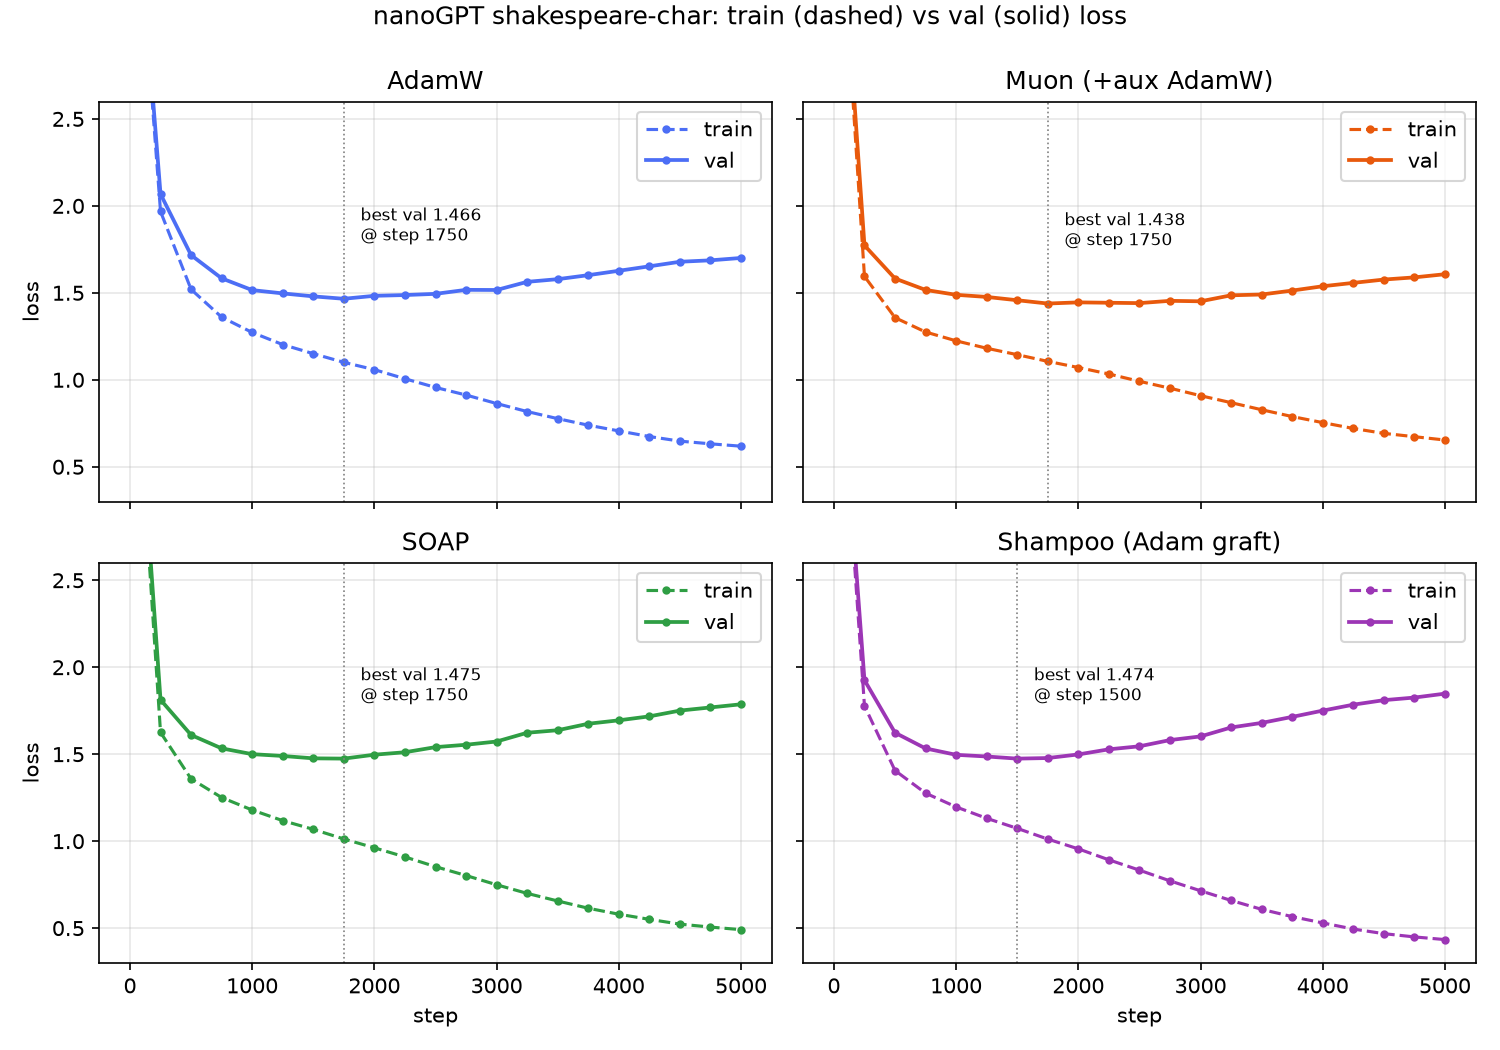
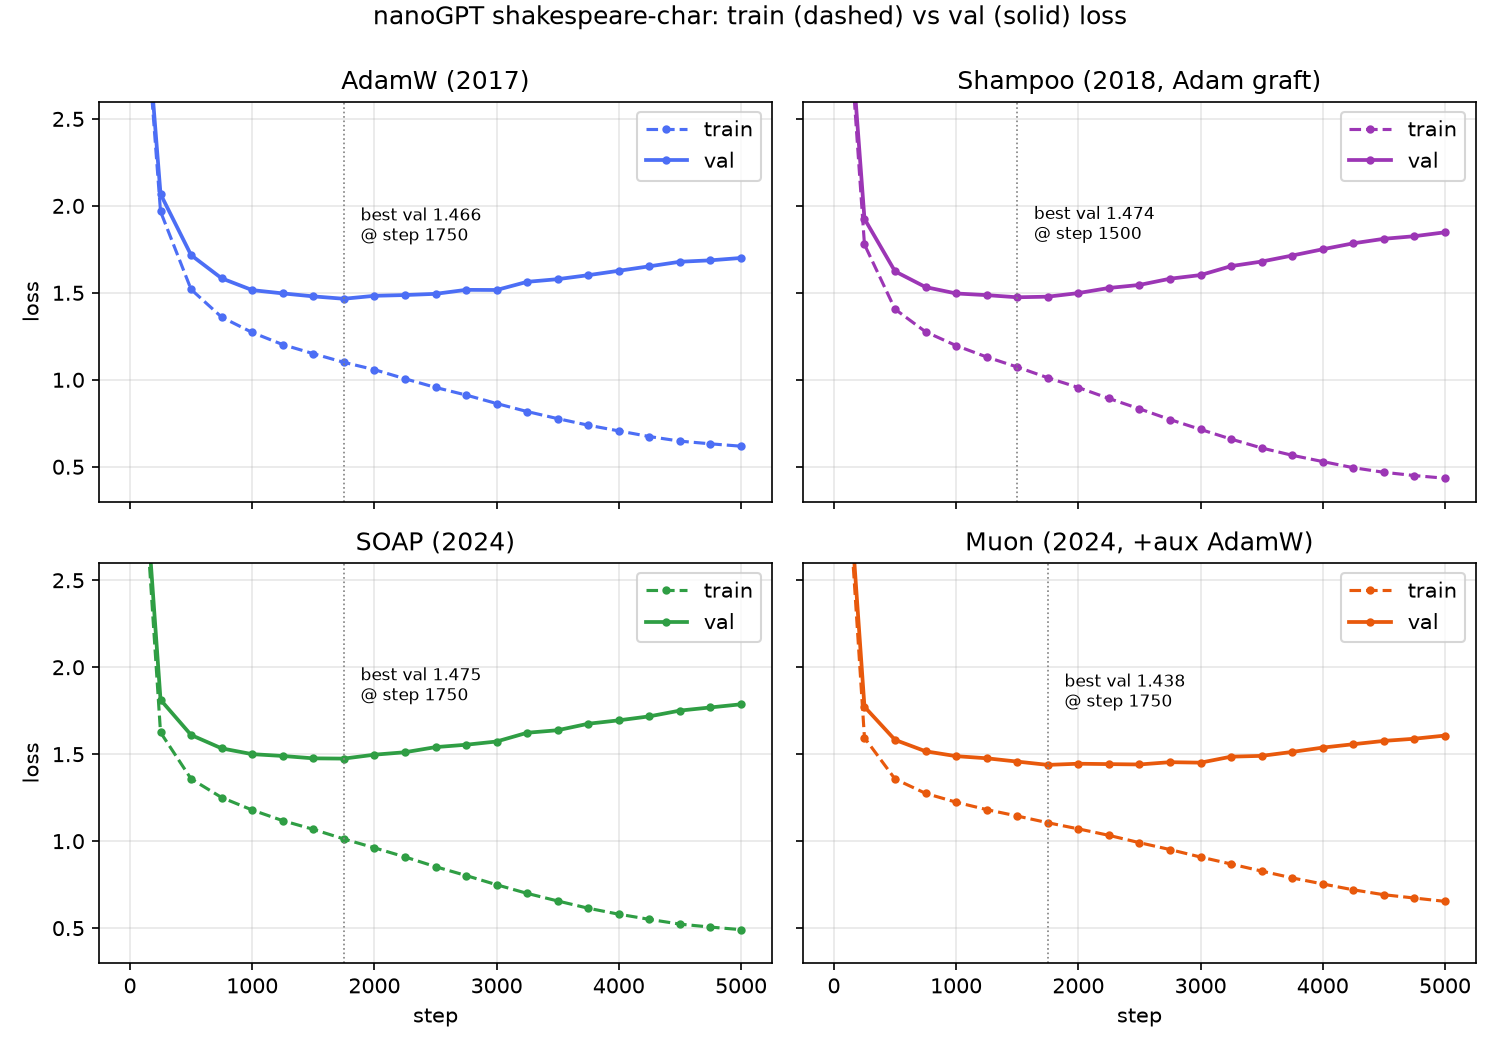
Order optimizers chronologically: AdamW, Shampoo, SOAP, Muon

diff --git a/scripts/analyze.py b/scripts/analyze.py
@@ -3,7 +3,7 @@ matplotlib.use('Agg')
 import matplotlib.pyplot as plt
 R = 'results'
 import os
-all_runs = [('AdamW', 'adamw', '#4C6EF5'), ('Muon (+aux AdamW)', 'muon', '#E8590C'), ('SOAP', 'soap', '#2F9E44'), ('Shampoo (Adam graft)', 'shampoo', '#9C36B5')]
+all_runs = [('AdamW (2017)', 'adamw', '#4C6EF5'), ('Shampoo (2018, Adam graft)', 'shampoo', '#9C36B5'), ('SOAP (2024)', 'soap', '#2F9E44'), ('Muon (2024, +aux AdamW)', 'muon', '#E8590C')]
 runs = {k: f'{R}/log_{f}.csv' for k, f, _ in all_runs if os.path.exists(f'{R}/log_{f}.csv')}
 colors = {k: c for k, _, c in all_runs}
 dfs = {k: pd.read_csv(v) for k, v in runs.items()}

diff --git a/scripts/plot_train_val.py b/scripts/plot_train_val.py
@@ -2,7 +2,7 @@ import pandas as pd, matplotlib
 matplotlib.use('Agg')
 import matplotlib.pyplot as plt
 R = 'results'
-runs = [('AdamW', 'adamw', '#4C6EF5'), ('Muon (+aux AdamW)', 'muon', '#E8590C'), ('SOAP', 'soap', '#2F9E44'), ('Shampoo (Adam graft)', 'shampoo', '#9C36B5')]
+runs = [('AdamW (2017)', 'adamw', '#4C6EF5'), ('Shampoo (2018, Adam graft)', 'shampoo', '#9C36B5'), ('SOAP (2024)', 'soap', '#2F9E44'), ('Muon (2024, +aux AdamW)', 'muon', '#E8590C')]
 fig, axes = plt.subplots(2, 2, figsize=(10, 7), dpi=150, sharex=True, sharey=True)
 for ax, (name, f, c) in zip(axes.flat, runs):
     df = pd.read_csv(f'{R}/log_{f}.csv')

diff --git a/results/README.md b/results/README.md
@@ -1,43 +1,46 @@
-# nanoGPT shakespeare-char: AdamW vs Muon vs SOAP vs Shampoo (RTX 5060, 2026-10-31)
+# nanoGPT shakespeare-char: AdamW vs Shampoo vs SOAP vs Muon (RTX 5060, 2026-10-31)
+
+옵티마이저는 발표 순서대로 정리한다: AdamW(2017) → Shampoo(2018) → SOAP(2024.9) → Muon(2024.10).
 
 공통 설정: n_layer=6, n_head=6, n_embd=384, block_size=256, batch_size=64, dropout=0.2,
 max_iters=5000, warmup 100 + cosine decay(min_lr = lr/10), seed=1337, eval_interval=250, eval_iters=200, bf16, torch.compile.
 네 run 모두 같은 warmup/cosine 스케줄(각 옵티마이저의 base lr에 비례).
 
 - (A) AdamW: lr=1e-3, betas=(0.9, 0.99), weight_decay=0.1 (2D), 0 (1D)
-- (B) Muon + aux AdamW (KellerJordan/Muon, SingleDeviceMuonWithAuxAdam):
+- (B) Shampoo (facebookresearch/optimizers DistributedShampoo, 전체 파라미터): AdamW grafting, (A)와 같은 lr=1e-3, betas=(0.9, 0.99), weight_decay=0.1(2D) / 0(1D), epsilon=1e-12, grafting epsilon=1e-8, max_preconditioner_dim=1536, precondition_frequency=10.
+- (C) SOAP (nikhilvyas/SOAP 공식 soap.py, 전체 파라미터): lr=3e-3, betas=(0.95, 0.95), weight_decay=0.01(2D) / 0(1D), precondition_frequency=10 (공식 README 기본값). 1D 파라미터는 프리컨디셔닝 없이 Adam.
+- (D) Muon + aux AdamW (KellerJordan/Muon, SingleDeviceMuonWithAuxAdam):
   - Muon: transformer block 내부 2D 가중치 24개(c_attn, c_proj, c_fc, c_proj) 10.62M 파라미터, lr=0.02, momentum=0.95, weight_decay=0.01(공식 README 기본값)
   - aux AdamW: wte(lm_head와 tied), wpe, LayerNorm 15개 0.13M 파라미터, (A)와 같은 lr=1e-3, betas, weight_decay
   - 그룹 구성: muon_param_groups.txt
-- (C) SOAP (nikhilvyas/SOAP 공식 soap.py, 전체 파라미터): lr=3e-3, betas=(0.95, 0.95), weight_decay=0.01(2D) / 0(1D), precondition_frequency=10 (공식 README 기본값). 1D 파라미터는 프리컨디셔닝 없이 Adam.
-- (D) Shampoo (facebookresearch/optimizers DistributedShampoo, 전체 파라미터): AdamW grafting, (A)와 같은 lr=1e-3, betas=(0.9, 0.99), weight_decay=0.1(2D) / 0(1D), epsilon=1e-12, grafting epsilon=1e-8, max_preconditioner_dim=1536, precondition_frequency=10.
 
 ## 결과 표
 | run | final val loss | best val loss (step) | final train loss | train time (s) | wall time incl. eval (s) | ms/step |
 |---|---|---|---|---|---|---|
-| AdamW | 1.7005 | 1.4659 (1750) | 0.6183 | 241.6 | 363.5 | 48.5 |
-| Muon (+aux AdamW) | 1.6071 | 1.4385 (1750) | 0.6538 | 277.2 | 399.0 | 55.7 |
-| SOAP | 1.7869 | 1.4746 (1750) | 0.4912 | 386.6 | 514.3 | 77.6 |
-| Shampoo (Adam graft) | 1.8481 | 1.4745 (1500) | 0.4341 | 661.5 | 784.1 | 132.8 |
+| AdamW (2017) | 1.7005 | 1.4659 (1750) | 0.6183 | 241.6 | 363.5 | 48.5 |
+| Shampoo (2018, Adam graft) | 1.8481 | 1.4745 (1500) | 0.4341 | 661.5 | 784.1 | 132.8 |
+| SOAP (2024) | 1.7869 | 1.4746 (1750) | 0.4912 | 386.6 | 514.3 | 77.6 |
+| Muon (2024, +aux AdamW) | 1.6071 | **1.4385** (1750) | 0.6538 | 277.2 | 399.0 | 55.7 |
 
-| val loss threshold | AdamW: step (time s) | Muon: step (time s) | SOAP: step (time s) | Shampoo: step (time s) |
+| val loss threshold | AdamW: step (time s) | Shampoo: step (time s) | SOAP: step (time s) | Muon: step (time s) |
 |---|---|---|---|---|
-| ≤ 2.0 | 500 (24s) | 250 (14s) | 250 (19s) | 250 (33s) |
-| ≤ 1.8 | 500 (24s) | 250 (14s) | 500 (39s) | 500 (67s) |
-| ≤ 1.7 | 750 (36s) | 500 (28s) | 500 (39s) | 500 (67s) |
-| ≤ 1.6 | 750 (36s) | 500 (28s) | 750 (58s) | 750 (100s) |
-| ≤ 1.5 | 1250 (60s) | 1000 (55s) | 1250 (97s) | 1000 (133s) |
+| ≤ 2.0 | 500 (24s) | 250 (33s) | 250 (19s) | 250 (14s) |
+| ≤ 1.8 | 500 (24s) | 500 (67s) | 500 (39s) | 250 (14s) |
+| ≤ 1.7 | 750 (36s) | 500 (67s) | 500 (39s) | 500 (28s) |
+| ≤ 1.6 | 750 (36s) | 750 (100s) | 750 (58s) | 500 (28s) |
+| ≤ 1.5 | 1250 (60s) | 1000 (133s) | 1250 (97s) | 1000 (55s) |
 
 train time = eval 시간을 뺀 순수 학습 step 누적 시간, wall time = eval 포함 전체 경과 시간.
+nanoGPT README의 A100 기준값은 best val 1.4697 (우리 AdamW 1.4659와 일치).
 
 ## 파일
-- log_{adamw,muon,soap,shampoo}.csv: step, train loss, val loss, 누적 학습 시간, 누적 전체 시간
-- val_loss_vs_step.png, val_loss_vs_time.png (4개 run)
+- log_{adamw,shampoo,soap,muon}.csv: step, train loss, val loss, 누적 학습 시간, 누적 전체 시간
+- val_loss_vs_step.png, val_loss_vs_time.png (4개 run), train_val_curves.png (옵티마이저별 train vs val)
 - sample_*.txt: best-val checkpoint에서 500자 생성(temperature 0.8, top_k 200, seed 1337)
 - out-*/: best-val checkpoint (out-shampoo는 옵티마이저 상태를 제거하고 모델만 저장)
 
 ## 요약
-- step 기준 최저 val loss: Muon 1.439 < AdamW 1.466 ≈ Shampoo 1.4745 ≈ SOAP 1.4746. Muon만 AdamW보다 확실히 좋고, SOAP·Shampoo는 초반(250~1000 step)에는 AdamW보다 빠르지만 최저점은 AdamW와 같은 수준이다.
-- 시간 기준에서는 순위가 바뀐다. step당 시간이 AdamW 48 ms, Muon 56 ms, SOAP 78 ms, Shampoo 133 ms라서, 같은 시간 안에 도달하는 val loss는 Muon > AdamW > SOAP > Shampoo 순이다. Shampoo는 step 효율 이득이 2.7배 느린 step 비용을 상쇄하지 못한다.
-- 네 run 모두 1500~1750 step 이후 과적합. SOAP·Shampoo는 train loss를 더 낮게 밀어붙이고(0.43~0.49) 그만큼 val loss가 더 빨리 올라간다. 이 데이터셋(1M 토큰)에서는 2차 옵티마이저의 강한 피팅력이 일반화에 불리하게 작용했다.
+- step 기준 최저 val loss: Muon 1.439 < AdamW 1.466 ≈ Shampoo 1.4745 ≈ SOAP 1.4746. Muon만 AdamW보다 확실히 좋고, Shampoo·SOAP은 초반(250~1000 step)에는 AdamW보다 빠르지만 최저점은 AdamW와 같은 수준이다.
+- 시간 기준에서는 순위가 바뀐다. step당 시간이 AdamW 48 ms, Shampoo 133 ms, SOAP 78 ms, Muon 56 ms라서, 같은 시간 안에 도달하는 val loss는 Muon > AdamW > SOAP > Shampoo 순이다. Shampoo는 step 효율 이득이 2.7배 느린 step 비용을 상쇄하지 못한다.
+- 네 run 모두 1500~1750 step 이후 과적합. Shampoo·SOAP은 train loss를 더 낮게 밀어붙이고(0.43~0.49) 그만큼 val loss가 더 빨리 올라간다. 이 데이터셋(1M 토큰)에서는 2차 옵티마이저의 강한 피팅력이 일반화에 불리하게 작용했다.
 - 단일 seed, lr 탐색 없음. SOAP은 공식 기본 lr(3e-3)을, Shampoo는 grafting 덕에 AdamW lr을 그대로 썼으나 둘 다 이 모델 크기에 맞춰 튜닝된 값은 아니다.

diff --git a/README.md b/README.md
@@ -1,25 +1,27 @@
-# nanoGPT optimizer comparison: AdamW vs Muon vs SOAP vs Shampoo
+# nanoGPT optimizer comparison: AdamW vs Shampoo vs SOAP vs Muon
 
 nanoGPT shakespeare-char(6 layer, 384 dim, 10.65M params)를 같은 설정으로 5000 step 학습하면서
-네 가지 옵티마이저를 비교한 실험. 단일 RTX 5060(8GB), 2026-10-31.
+네 가지 옵티마이저를 발표 순서대로 비교한 실험: AdamW(2017) → Shampoo(2018) → SOAP(2024.9) → Muon(2024.10).
+단일 RTX 5060(8GB), 2026-10-31.
 
 **결과와 요약은 [results/README.md](results/README.md)** 에 있다.
 
 ![val loss vs step](results/val_loss_vs_step.png)
 ![val loss vs time](results/val_loss_vs_time.png)
+![train vs val per optimizer](results/train_val_curves.png)
 
 | run | best val loss (step) | ms/step |
 |---|---|---|
-| AdamW | 1.4659 (1750) | 48.5 |
-| Muon + aux AdamW | **1.4385** (1750) | 55.7 |
-| SOAP | 1.4746 (1750) | 77.6 |
-| Shampoo (Adam graft) | 1.4745 (1500) | 132.8 |
+| AdamW (2017) | 1.4659 (1750) | 48.5 |
+| Shampoo (2018, Adam graft) | 1.4745 (1500) | 132.8 |
+| SOAP (2024) | 1.4746 (1750) | 77.6 |
+| Muon (2024, +aux AdamW) | **1.4385** (1750) | 55.7 |
 
 ## 구성
 
-- `scripts/train_exp.py` — nanoGPT `train.py`에 `--optimizer_name=adamw|muon|soap|shampoo`, 그룹별 lr 스케줄, CSV 로깅을 덧붙인 버전 (nanoGPT와 같은 MIT 라이선스)
+- `scripts/train_exp.py` — nanoGPT `train.py`에 `--optimizer_name=adamw|shampoo|soap|muon`, 그룹별 lr 스케줄, CSV 로깅을 덧붙인 버전 (nanoGPT와 같은 MIT 라이선스)
 - `scripts/run_all.sh`, `scripts/run_extra.sh` — AdamW/Muon, SOAP/Shampoo 실행 (30 step 스모크 테스트 포함)
-- `scripts/analyze.py`, `scripts/gen_samples.sh` — 그래프·표·500자 생성 샘플
+- `scripts/analyze.py`, `scripts/plot_train_val.py`, `scripts/gen_samples.sh` — 그래프·표·500자 생성 샘플
 - `results/` — CSV 로그, 그래프, 표, 샘플, 설정과 요약
 
 checkpoint(합쳐 686MB)와 외부 리포는 포함하지 않았다.
@@ -32,9 +34,9 @@ checkpoint(합쳐 686MB)와 외부 리포는 포함하지 않았다.
 | 리포 | 커밋 |
 |---|---|
 | https://github.com/karpathy/nanoGPT | 3adf61e |
-| https://github.com/KellerJordan/Muon | f98f1ca |
-| https://github.com/nikhilvyas/SOAP | a1e5535 |
 | https://github.com/facebookresearch/optimizers | 2837ffc |
+| https://github.com/nikhilvyas/SOAP | a1e5535 |
+| https://github.com/KellerJordan/Muon | f98f1ca |
 
 ```bash
 uv venv --python 3.12 .venv
@@ -45,7 +47,7 @@ cp scripts/train_exp.py nanoGPT/
 .venv/bin/python nanoGPT/data/shakespeare_char/prepare.py
 ./run_all.sh      # AdamW, Muon   (~6분/run)
 ./run_extra.sh    # SOAP, Shampoo (PYTHONPATH=fb_optimizers, ~7분 / ~12분)
-.venv/bin/python analyze.py && ./gen_samples.sh
+.venv/bin/python analyze.py && .venv/bin/python plot_train_val.py && ./gen_samples.sh
 ```
 
 torch 2.11.0+cu128, Python 3.12, 드라이버 595.99.

diff --git a/results/summary_table.md b/results/summary_table.md
@@ -1,14 +1,14 @@
 | run | final val loss | best val loss (step) | final train loss | train time (s) | wall time incl. eval (s) | ms/step |
 |---|---|---|---|---|---|---|
-| AdamW | 1.7005 | 1.4659 (1750) | 0.6183 | 241.6 | 363.5 | 48.5 |
-| Muon (+aux AdamW) | 1.6071 | 1.4385 (1750) | 0.6538 | 277.2 | 399.0 | 55.7 |
-| SOAP | 1.7869 | 1.4746 (1750) | 0.4912 | 386.6 | 514.3 | 77.6 |
-| Shampoo (Adam graft) | 1.8481 | 1.4745 (1500) | 0.4341 | 661.5 | 784.1 | 132.8 |
+| AdamW (2017) | 1.7005 | 1.4659 (1750) | 0.6183 | 241.6 | 363.5 | 48.5 |
+| Shampoo (2018, Adam graft) | 1.8481 | 1.4745 (1500) | 0.4341 | 661.5 | 784.1 | 132.8 |
+| SOAP (2024) | 1.7869 | 1.4746 (1750) | 0.4912 | 386.6 | 514.3 | 77.6 |
+| Muon (2024, +aux AdamW) | 1.6071 | 1.4385 (1750) | 0.6538 | 277.2 | 399.0 | 55.7 |
 
-| val loss threshold | AdamW: step (time s) | Muon (+aux AdamW): step (time s) | SOAP: step (time s) | Shampoo (Adam graft): step (time s) |
+| val loss threshold | AdamW (2017): step (time s) | Shampoo (2018, Adam graft): step (time s) | SOAP (2024): step (time s) | Muon (2024, +aux AdamW): step (time s) |
 |---|---|---|---|---|
-| ≤ 2.0 | 500 (24s) | 250 (14s) | 250 (19s) | 250 (33s) |
-| ≤ 1.8 | 500 (24s) | 250 (14s) | 500 (39s) | 500 (67s) |
-| ≤ 1.7 | 750 (36s) | 500 (28s) | 500 (39s) | 500 (67s) |
-| ≤ 1.6 | 750 (36s) | 500 (28s) | 750 (58s) | 750 (100s) |
-| ≤ 1.5 | 1250 (60s) | 1000 (55s) | 1250 (97s) | 1000 (133s) |
+| ≤ 2.0 | 500 (24s) | 250 (33s) | 250 (19s) | 250 (14s) |
+| ≤ 1.8 | 500 (24s) | 500 (67s) | 500 (39s) | 250 (14s) |
+| ≤ 1.7 | 750 (36s) | 500 (67s) | 500 (39s) | 500 (28s) |
+| ≤ 1.6 | 750 (36s) | 750 (100s) | 750 (58s) | 500 (28s) |
+| ≤ 1.5 | 1250 (60s) | 1000 (133s) | 1250 (97s) | 1000 (55s) |
